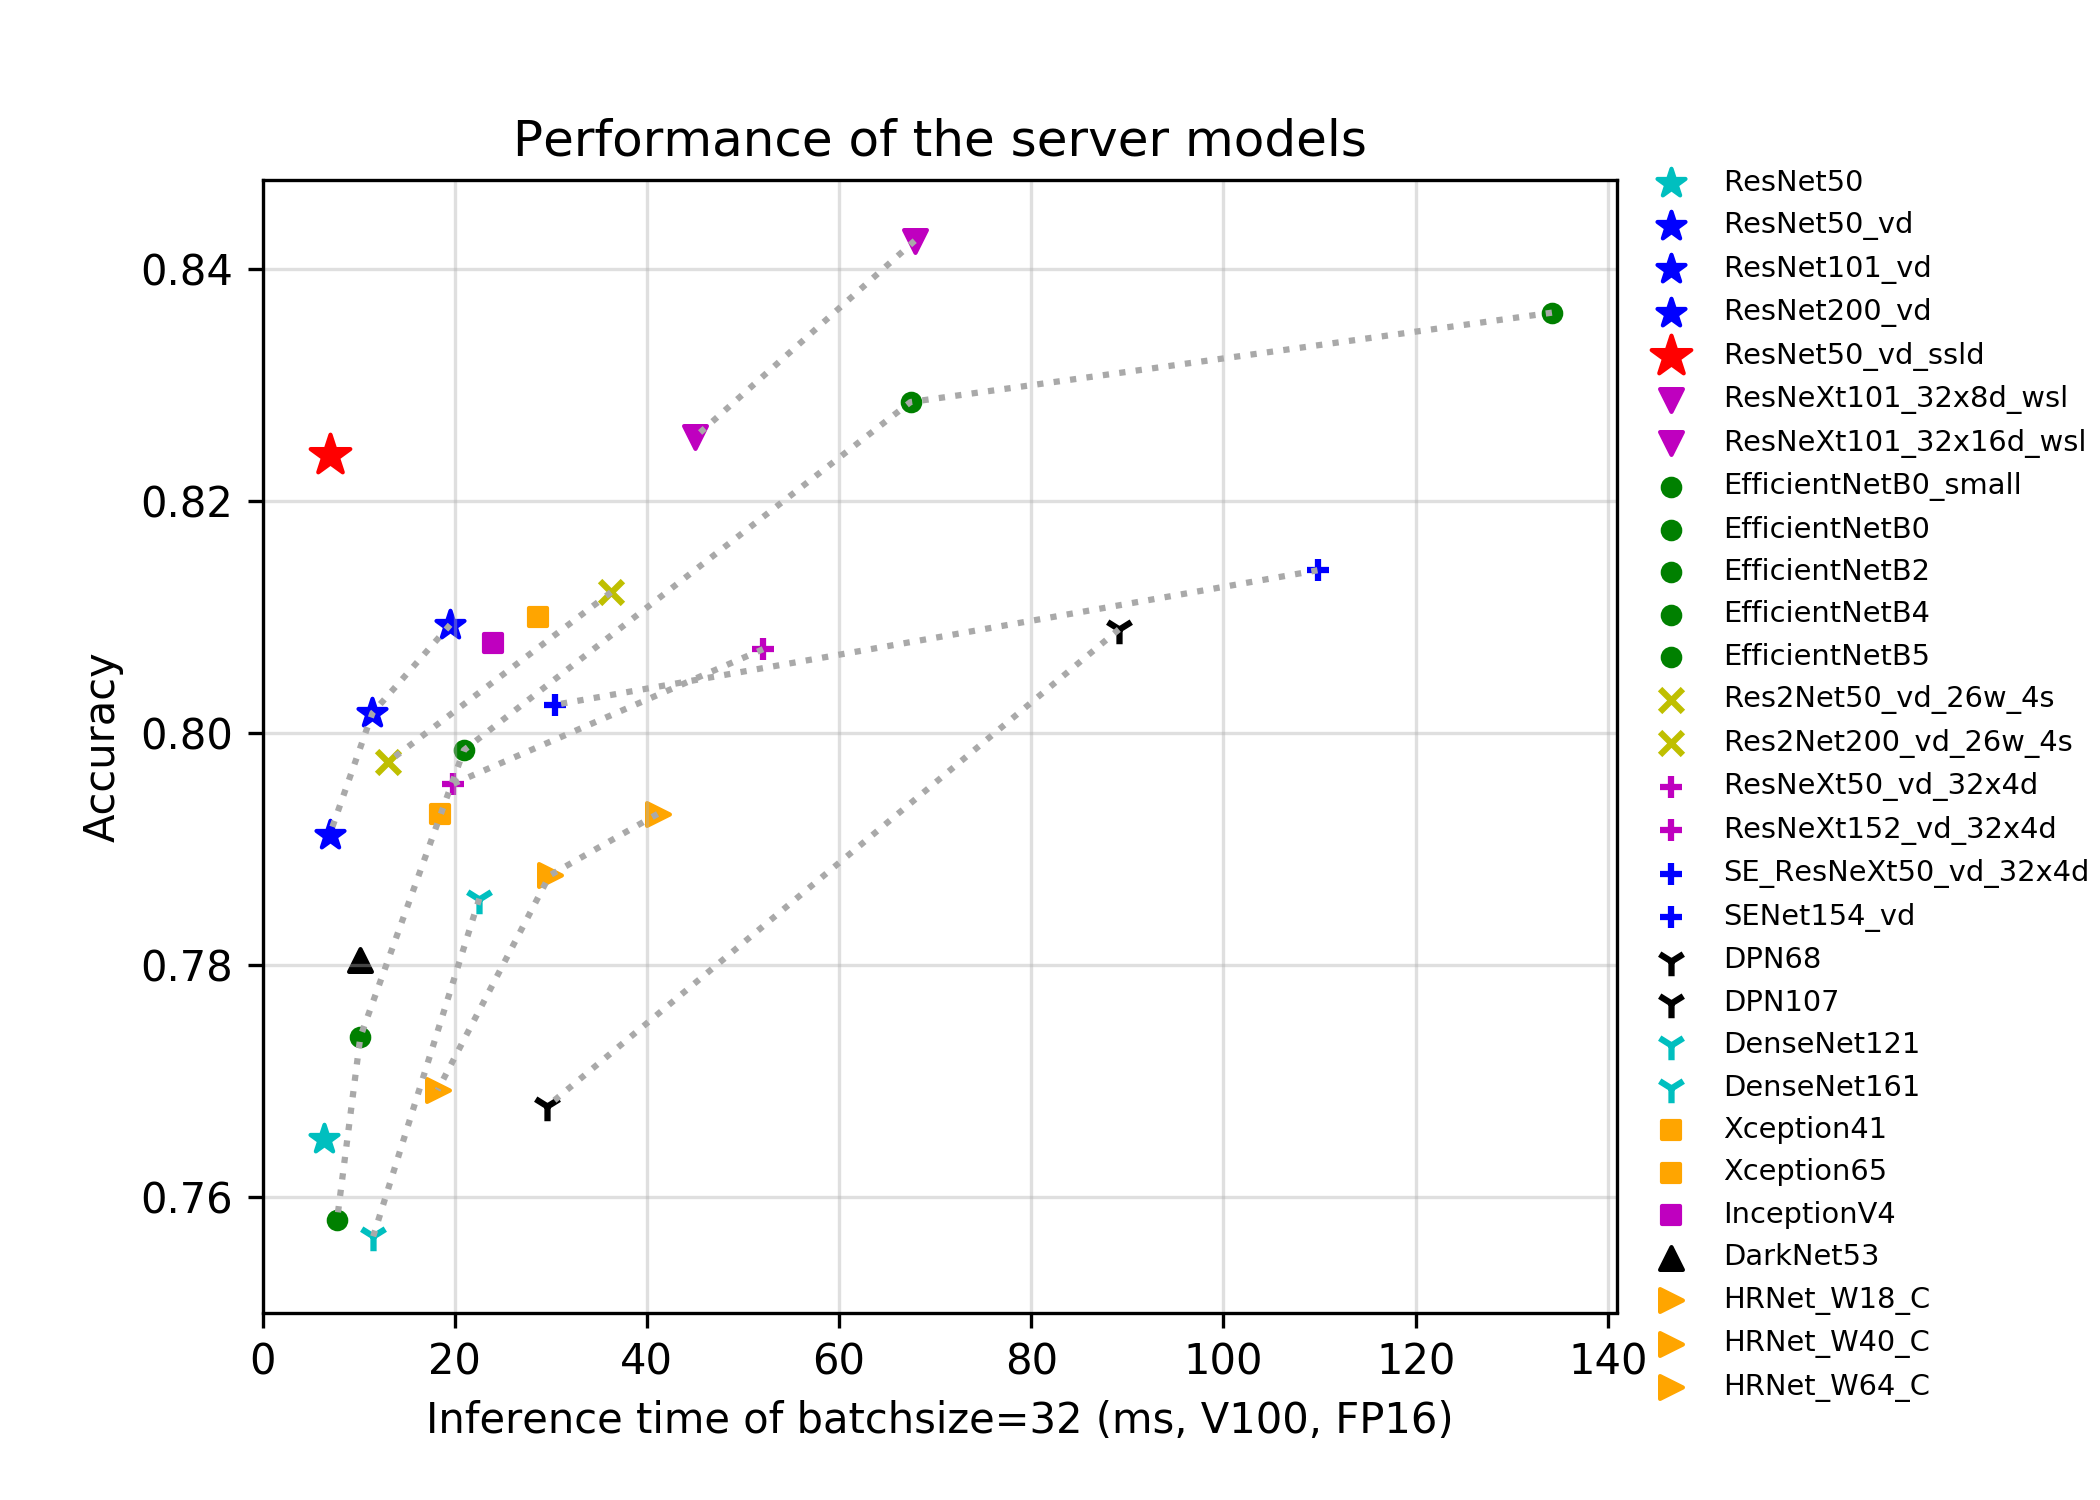
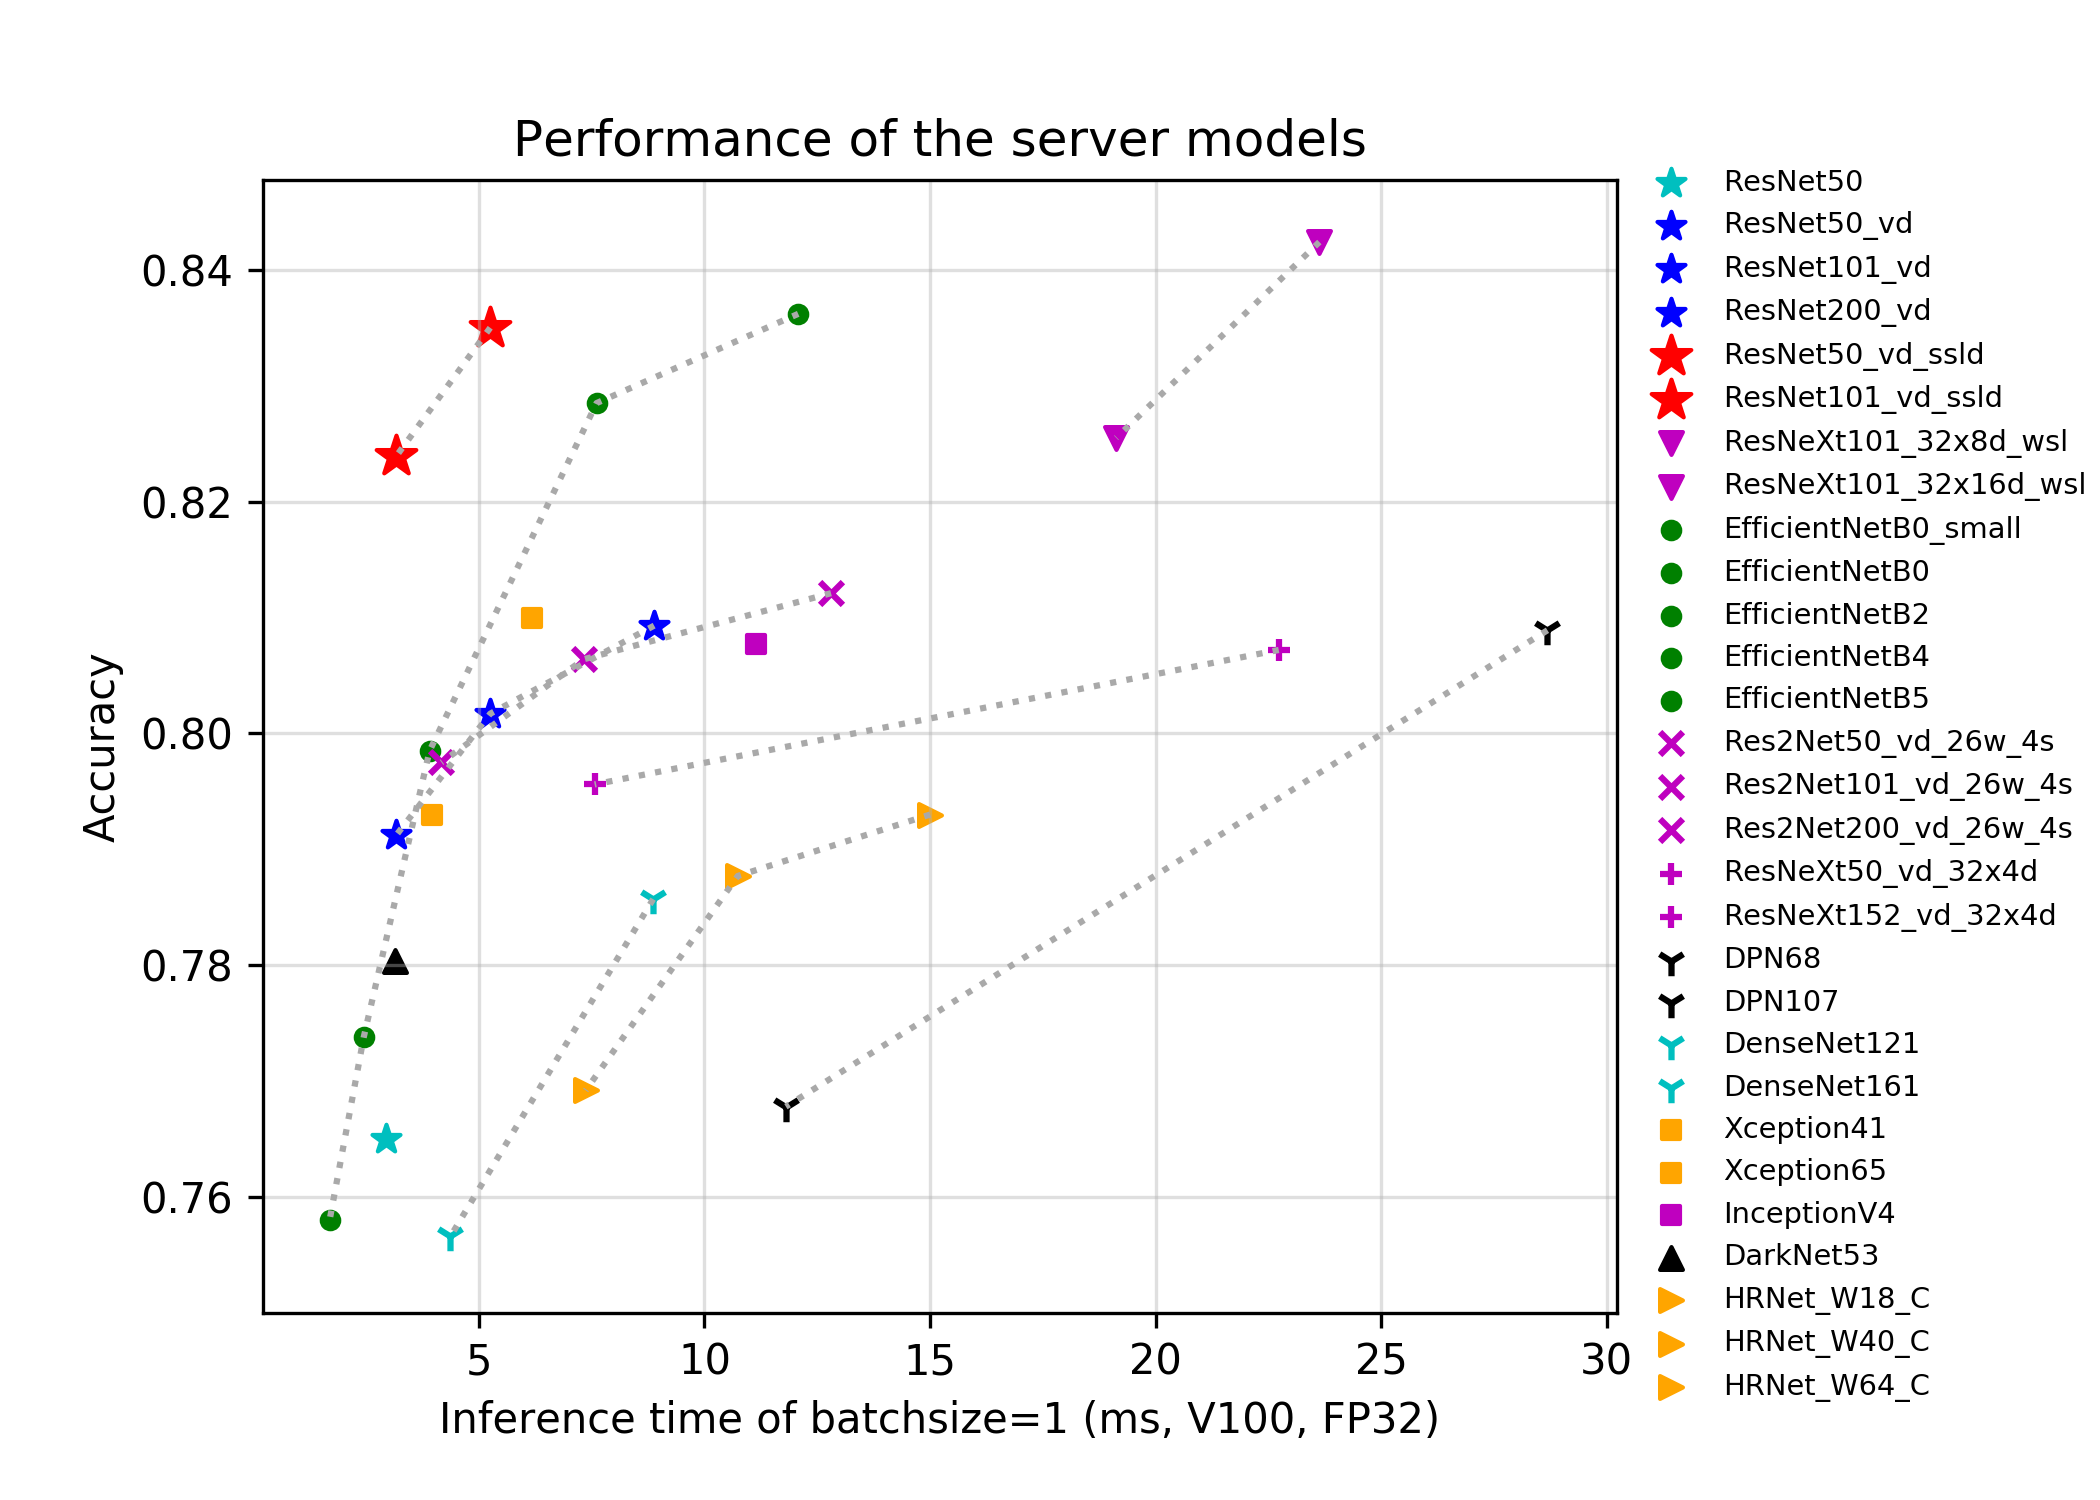
add tables

diff --git a/docs/zh_CN/models/ResNet_and_vd.md b/docs/zh_CN/models/ResNet_and_vd.md
@@ -9,7 +9,16 @@ ResNet系列模型是在2015年提出的，一举在ILSVRC2015比赛中取得冠
 本次发布ResNet系列的模型包括ResNet50，ResNet50_vd，ResNet50_vd_ssld，ResNet200_vd等14个预训练模型。在训练层面上，ResNet的模型采用了训练ImageNet的标准训练流程，而其余改进版模型采用了更多的训练策略，如learning rate的下降方式采用了cosine decay，引入了label smoothing的标签正则方式，在数据预处理加入了mixup的操作，迭代总轮数从120个epoch增加到200个epoch。
 
 其中，ResNet50_vd_v2与ResNet50_vd_ssld采用了知识蒸馏，保证模型结构不变的情况下，进一步提升了模型的精度，具体地，ResNet50_vd_v2的teacher模型是ResNet152_vd（top1准确率80.59%），数据选用的是ImageNet-1k的训练集，ResNet50_vd_ssld的teacher模型是ResNeXt101_32x16d_wsl（top1准确率84.2%），数据选用结合了ImageNet-1k的训练集和ImageNet-22k挖掘的400万数据。知识蒸馏的具体方法正在持续更新中。
-![](../../images/models/ResNet.png)
+
+
+该系列模型的FLOPS、参数量以及fp32预测耗时如下图所示。
+
+![](../../images/models/ResNet.png.flops.png)
+
+![](../../images/models/ResNet.png.params.png)
+
+![](../../images/models/ResNet.png.fp32.png)
+
 通过上述曲线可以看出，层数越多，准确率越高，但是相应的参数量、计算量和延时都会增加。ResNet50_vd_ssld通过用更强的teacher和更多的数据，将其在ImageNet-1k上的验证集top-1精度进一步提高，达到了82.39%，刷新了ResNet50系列模型的精度。
 
 **注意**：所有模型在预测时，图像的crop_size设置为224，resize_short_size设置为256。

diff --git a/docs/zh_CN/models/EfficientNet_and_ResNeXt101_wsl.md b/docs/zh_CN/models/EfficientNet_and_ResNeXt101_wsl.md
@@ -2,26 +2,14 @@
 
 ## 概述
 正在持续更新中......
-![](../../images/models/EfficientNet.png)
 
-在预测时，图像的crop_size和resize_short_size如下表所示。
+该系列模型的FLOPS、参数量以及fp32预测耗时如下图所示。
 
-| Models                    | crop_size | resize_short_size |
-|:--:|:--:|:--:|
-| ResNeXt101_32x8d_wsl      | 224       | 224               |
-| ResNeXt101_32x16d_wsl     | 224       | 224               |
-| ResNeXt101_32x32d_wsl     | 224       | 224               |
-| ResNeXt101_32x48d_wsl     | 224       | 224               |
-| Fix_ResNeXt101_32x48d_wsl | 320       | 320               |
-| EfficientNetB0            | 224       | 256               |
-| EfficientNetB1            | 240       | 272               |
-| EfficientNetB2            | 260       | 292               |
-| EfficientNetB3            | 300       | 332               |
-| EfficientNetB4            | 380       | 412               |
-| EfficientNetB5            | 456       | 488               |
-| EfficientNetB6            | 528       | 560               |
-| EfficientNetB7            | 600       | 632               |
-| EfficientNetB0_small      | 224       | 256               |
+![](../../images/models/EfficientNet.png.flops.png)
+
+![](../../images/models/EfficientNet.png.params.png)
+
+![](../../images/models/EfficientNet.png.fp32.png)
 
 
 ## 精度、FLOPS和参数量

diff --git a/docs/zh_CN/models/HRNet.md b/docs/zh_CN/models/HRNet.md
@@ -21,11 +21,11 @@
 
 ## FP32预测速度
 
-| Models                          | Crop Size | Resize Short Size | Batch Size=1<br>(ms) |
+| Models      | Crop Size | Resize Short Size | Batch Size=1<br>(ms) |
 |-------------|-----------|-------------------|--------------------------|
 | HRNet_W18_C | 224       | 256               | 7.368                    |
-| HRNet_W30_C | 224       | 256               | 9.495                    |
-| HRNet_W32_C | 224       | 256               | 9.292                    |
+| HRNet_W30_C | 224       | 256               | 9.402                    |
+| HRNet_W32_C | 224       | 256               | 9.467                    |
 | HRNet_W40_C | 224       | 256               | 10.739                   |
 | HRNet_W44_C | 224       | 256               | 11.497                   |
 | HRNet_W48_C | 224       | 256               | 12.165                   |

diff --git a/docs/zh_CN/models/DPN_DenseNet.md b/docs/zh_CN/models/DPN_DenseNet.md
@@ -2,9 +2,16 @@
 
 ## 概述
 正在持续更新中......
-![](../../images/models/DPN.png)
-所有模型在预测时，图像的crop_size设置为224，resize_short_size设置为256。
 
+该系列模型的FLOPS、参数量以及fp32预测耗时如下图所示。
+
+![](../../images/models/DPN.png.flops.png)
+
+![](../../images/models/DPN.png.params.png)
+
+![](../../images/models/DPN.png.fp32.png)
+
+所有模型在预测时，图像的crop_size设置为224，resize_short_size设置为256。
 
 ## 精度、FLOPS和参数量
 
